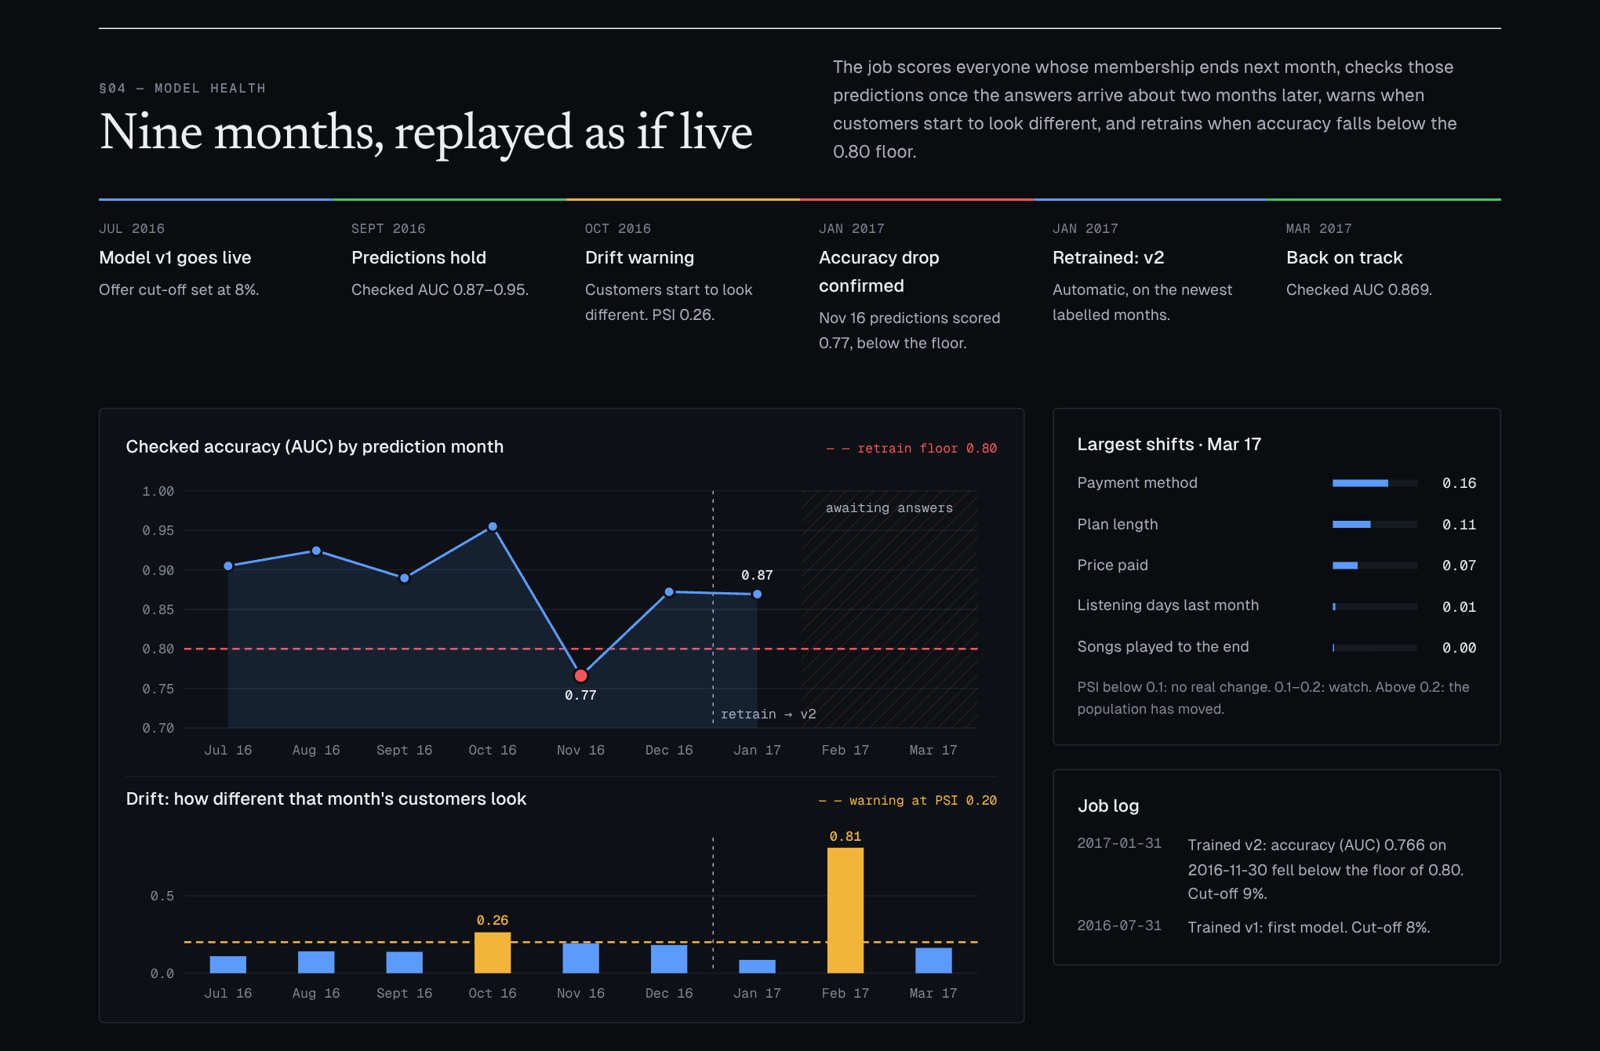
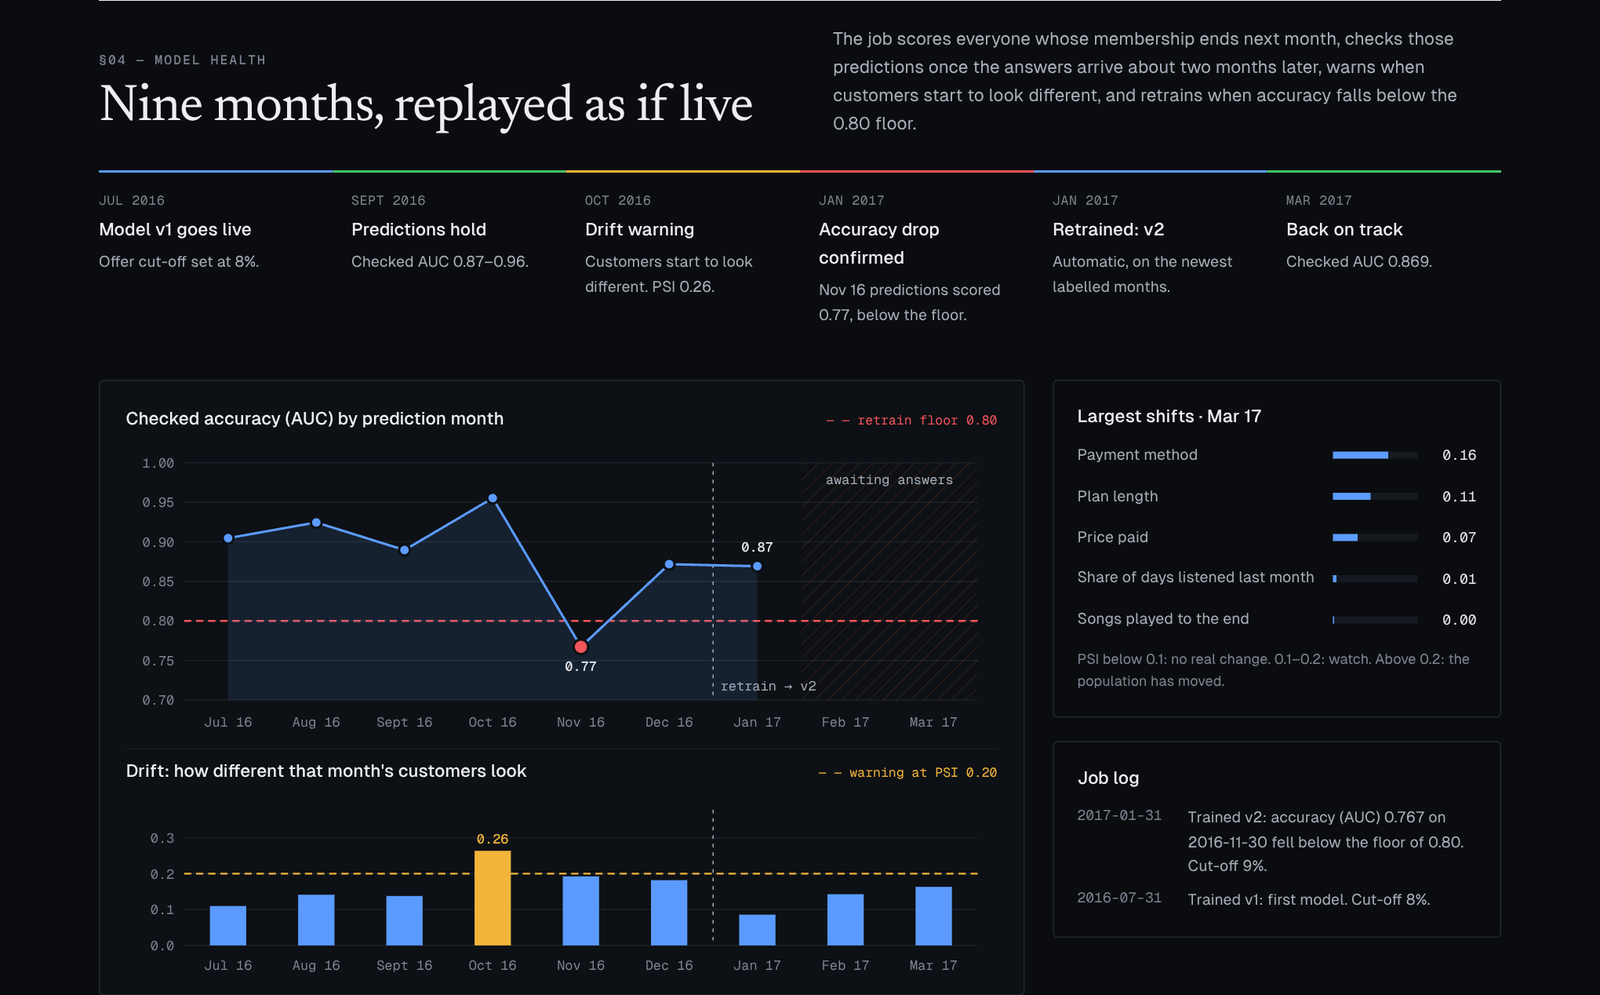
Final README and screenshots

diff --git a/README.md b/README.md
@@ -224,7 +224,7 @@ history **one month per run**, as if each month had just arrived.
   recompute the best cut-off and the money saved for any setting without a server.
 
 **On the real data** (replay from July 2016 to March 2017): checked accuracy stayed between
-0.89 and 0.95 until the drift warning in October 2016 (score 0.26). The November predictions
+0.89 and 0.96 until the drift warning in October 2016 (score 0.26). The November predictions
 then scored 0.77, which the job learned in January 2017, when their answers arrived. It
 retrained on the newest known months, and the next checked month scored 0.87.
 
